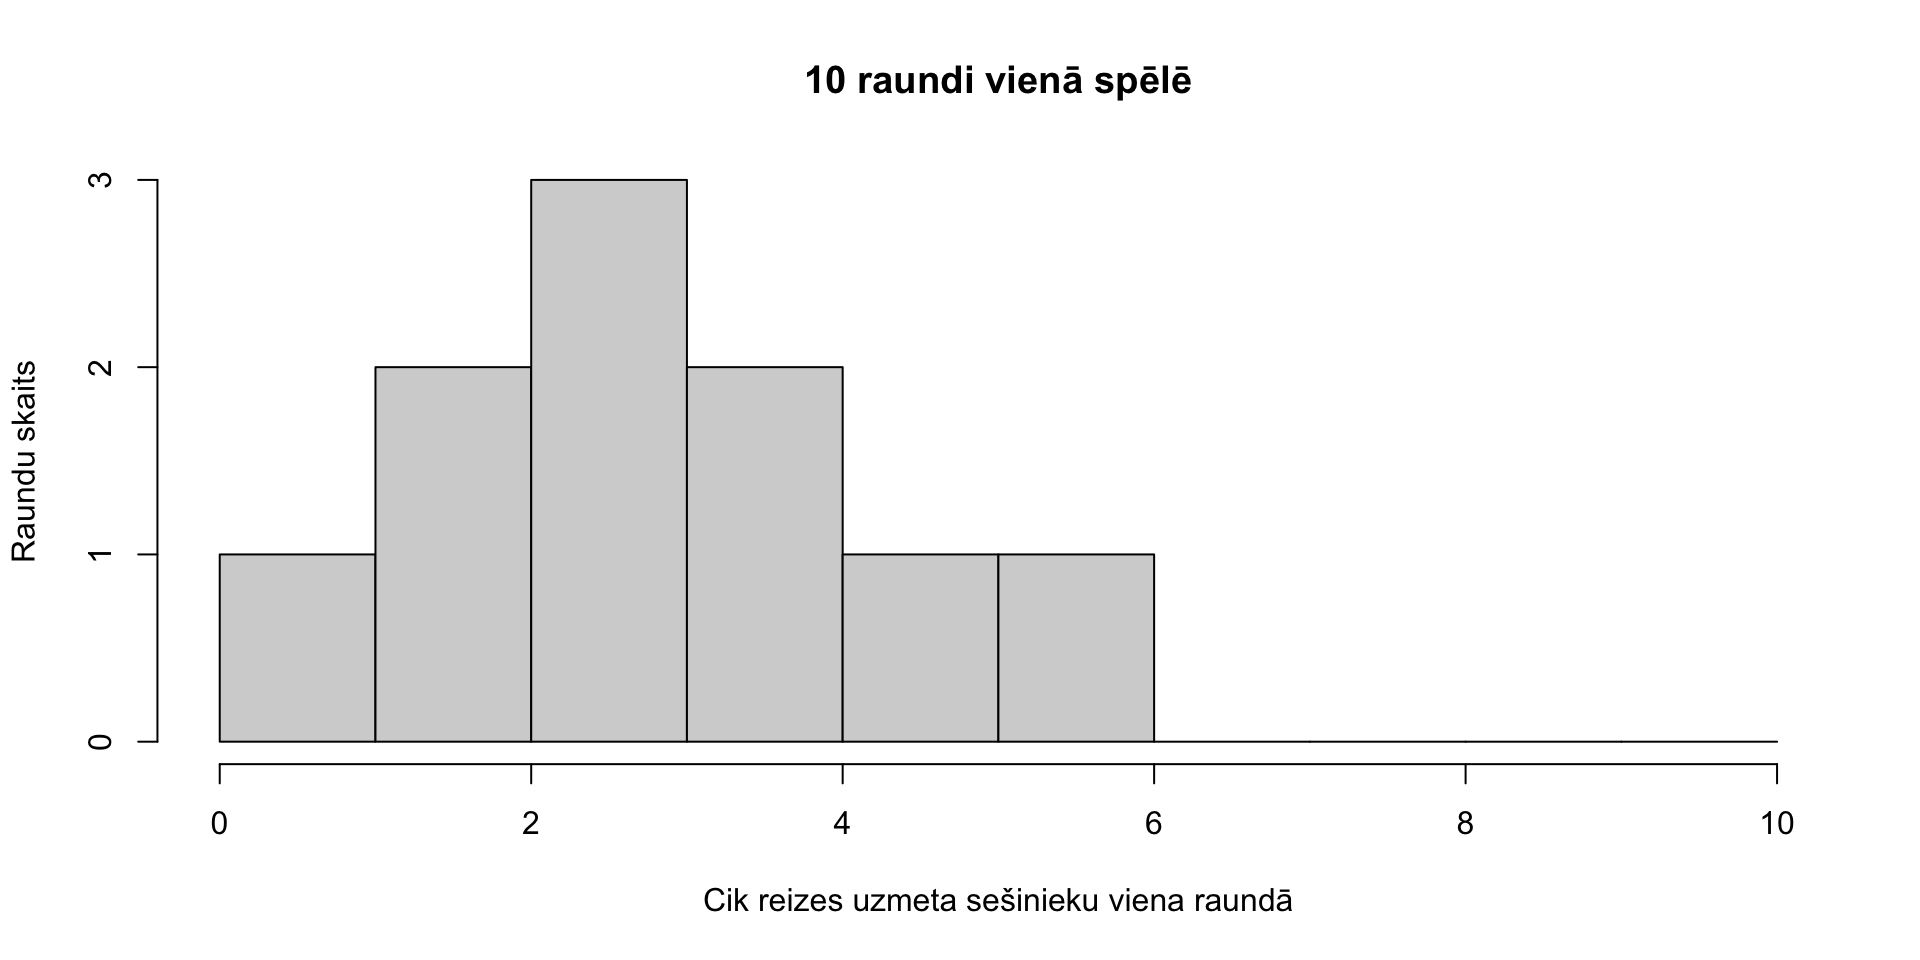
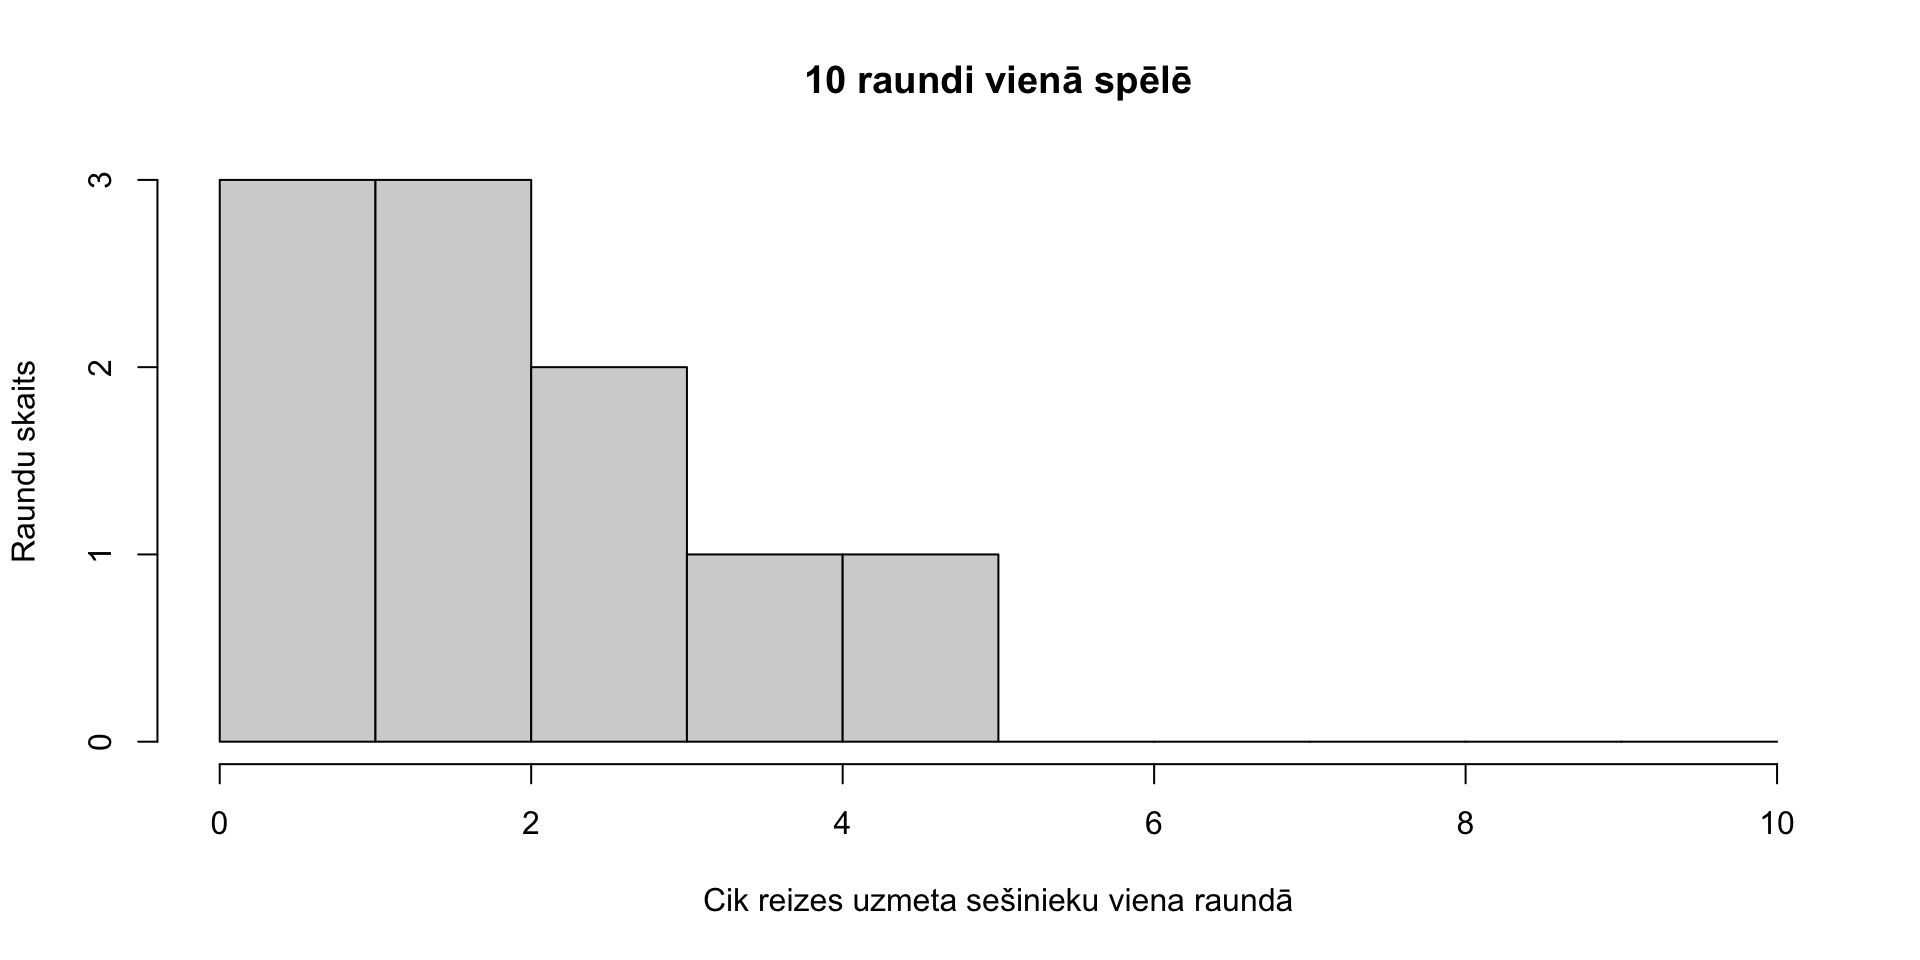
Finished fr fr

Changed region(s): [[0.0938, 0.1875, 0.4375, 0.5938], [0.5, 0.5625, 0.625, 0.7812]]

diff --git a/docs/talks/LSMAT/LSMAT_lekcija.html b/docs/talks/LSMAT/LSMAT_lekcija.html
@@ -985,9 +985,9 @@ P[a \le \bar{X} \le b]  = 1 -\alpha
 <div class="column" style="width:50%;">
 <div class="cell">
 <div class="cell-output cell-output-stdout">
-<pre><code>  [1] 1 2 1 2 3 3 2 4 2 3 3 3 0 3 1 1 1 3 4 3 3 3 2 2 1 5 3 2 1 1 4 2 2 0 0 1 2
- [38] 2 2 3 2 3 5 1 4 1 1 3 3 2 3 1 2 1 3 1 2 1 1 2 0 1 4 1 1 2 2 4 1 0 3 3 0 2
- [75] 2 2 3 3 2 2 2 2 4 1 3 2 1 4 3 1 2 2 2 2 1 2 3 2 3 1</code></pre>
+<pre><code>  [1] 3 1 3 1 1 3 3 5 1 2 2 3 1 2 5 1 3 2 4 1 1 2 4 4 3 4 2 3 3 2 4 5 2 1 3 2 1
+ [38] 2 1 4 3 0 3 2 5 0 2 3 3 2 2 3 4 1 2 4 0 2 4 2 2 3 1 1 3 3 1 4 2 2 2 1 3 4
+ [75] 3 1 3 3 2 3 1 3 1 2 1 0 3 3 2 4 0 3 1 0 3 0 2 4 3 2</code></pre>
 </div>
 </div>
 </div><div class="column" style="width:50%;">
@@ -1020,13 +1020,13 @@ P[a \le \bar{X} \le b]  = 1 -\alpha
     One Sample t-test
 
 data:  pirate_100
-t = 3.7797, df = 99, p-value = 0.0001342
+t = 5.2086, df = 99, p-value = 5.183e-07
 alternative hypothesis: true mean is greater than 1.666667
 95 percent confidence interval:
- 1.904033      Inf
+ 2.111733      Inf
 sample estimates:
 mean of x 
-     2.09 </code></pre>
+     2.32 </code></pre>
 </div>
 </div>
 </div></div>
